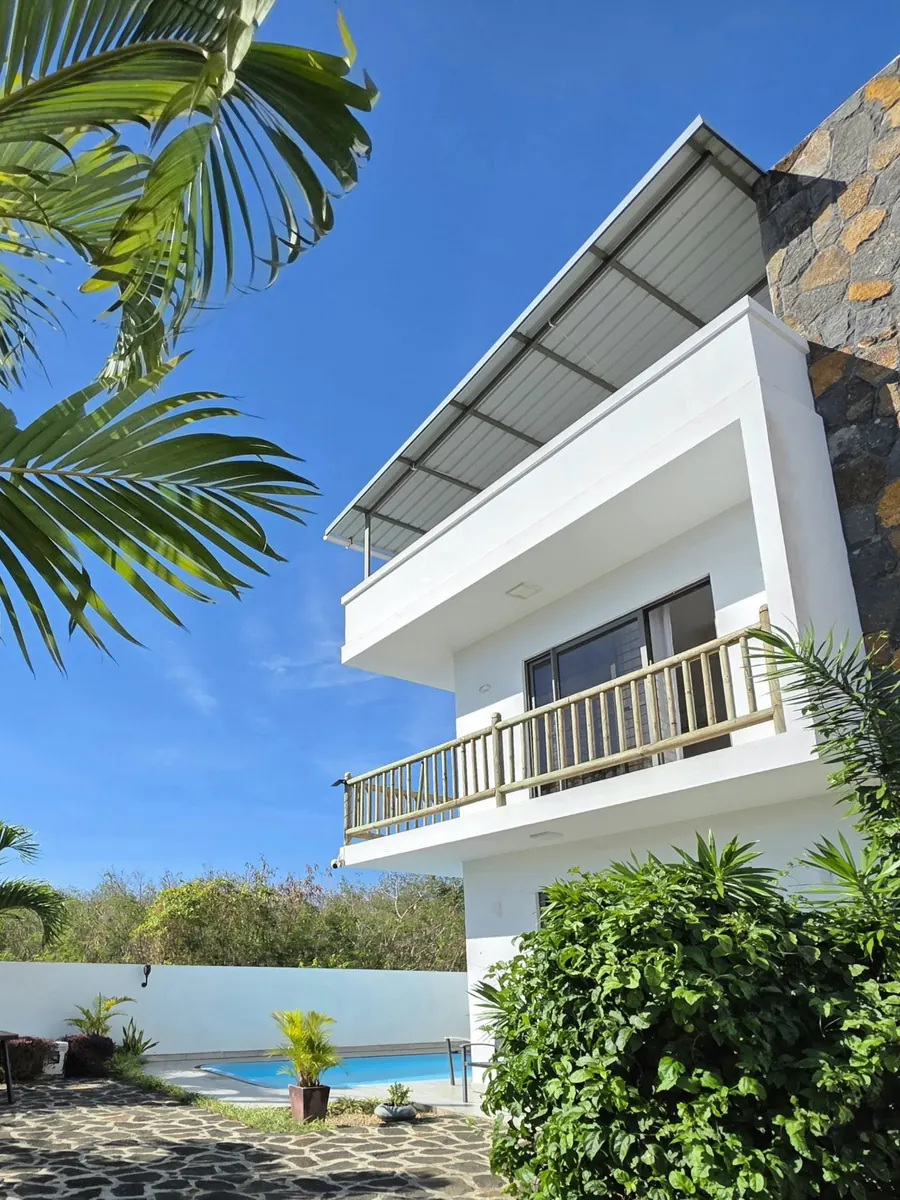
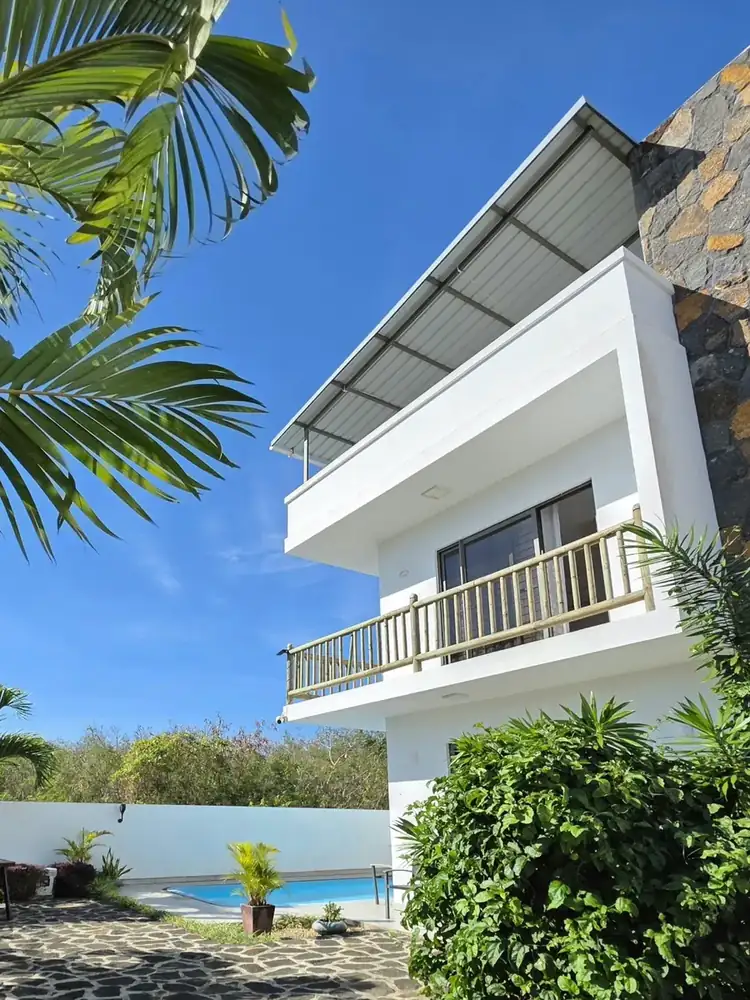
Faster mobile home page: gallery thumbnails and a lighter hero image
The gallery grid loaded the full-size photos (about 1.9 MB for 15
images) to show them at thumbnail size, competing with the hero image
for bandwidth. The grid now uses 400px and 800px thumbnails; the full
photo is only loaded in the viewer. The mobile hero image is re-encoded
from 150 KB to 87 KB.

Claude-Session: https://claude.ai/code/session_01CmEs7Vt1ufXAhAMFixQsUz

Changed region(s): [[0.4293, 0.651, 0.46, 0.682]]

diff --git a/src/components/Gallery.tsx b/src/components/Gallery.tsx
@@ -2,6 +2,13 @@ import { useState } from "react";
 import { galleryImages, type ImageCategory } from "@/data/galleryData";
 import { useLang } from "@/i18n/LanguageContext";
 
+/** Small 4:3 version of a gallery photo for the grid; the full photo is only loaded in the viewer. */
+function thumb(src: string, width: 400 | 800) {
+  return src
+    .replace("/lovable-uploads/", "/lovable-uploads/thumbs/")
+    .replace(/\.\w+$/, `-${width}.webp`);
+}
+
 export default function Gallery() {
   const { t } = useLang();
   const [tab, setTab] = useState<ImageCategory>("all");
@@ -63,7 +70,9 @@ export default function Gallery() {
               className="group relative overflow-hidden rounded-lg shadow-md hover:shadow-2xl transition-all aspect-[4/3] bg-luxury-beige"
             >
               <img
-                src={img.src}
+                src={thumb(img.src, 800)}
+                srcSet={`${thumb(img.src, 400)} 400w, ${thumb(img.src, 800)} 800w`}
+                sizes="(min-width: 1024px) 25vw, (min-width: 640px) 33vw, 50vw"
                 alt={img.alt}
                 loading="lazy"
                 decoding="async"
